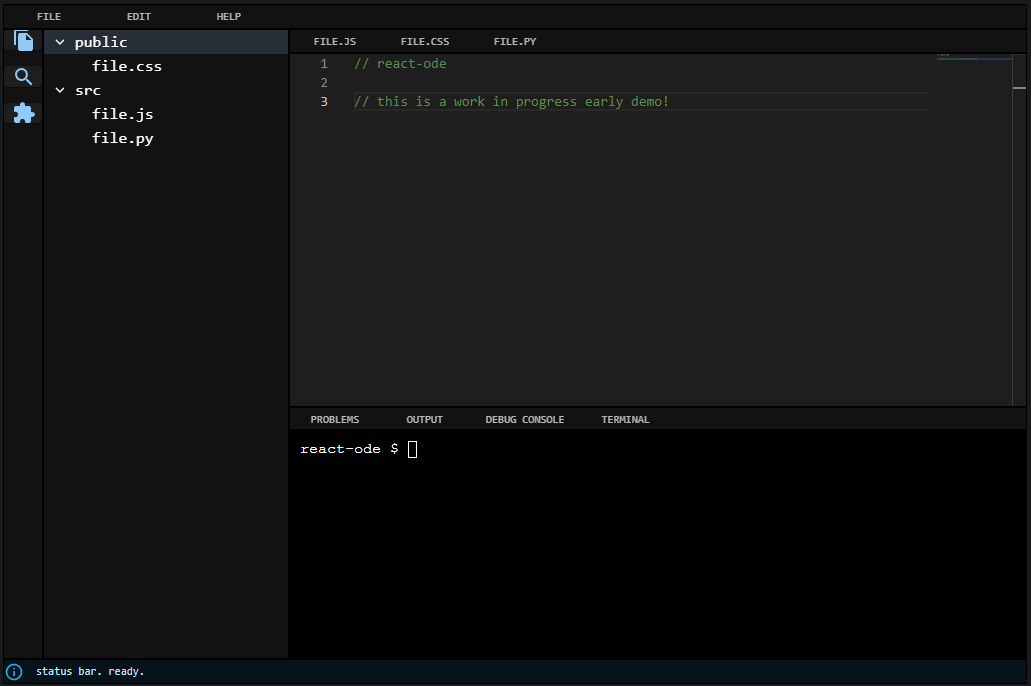
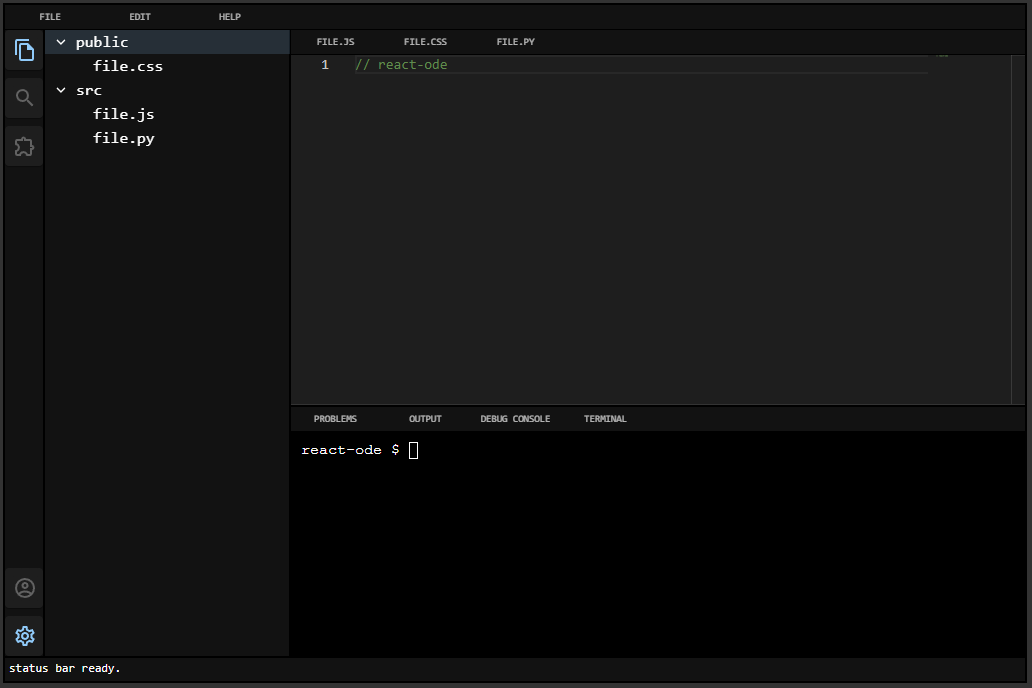
started using emotion internally as well + minor fixes here and there
now I just need to figure out how to make this responsive

diff --git a/src/components/Workspace.js b/src/components/Workspace.js
@@ -1,16 +1,24 @@
 import React from 'react';
 import PropTypes from 'prop-types';
+import { css } from '@emotion/react';
 import { Resizable } from 're-resizable';
 import { ThemeProvider, createTheme } from '@mui/material/styles';
 import { Console, ConsoleTabs, Editor, EditorTabs, Explorer, Header, Nav, Status } from './workspace';
 import ReactResizeDetector from 'react-resize-detector';
 
-import './Workspace.css';
-
 const theme = createTheme({
   palette: { mode: 'dark' },
   typography: { fontFamily: ['monospace'] },
 });
+
+const styles = {
+  root: css({ display: 'flex', flexDirection: 'column', border: 0, margin: 0, padding: 0 }),
+  border: css({ border: '1px solid #000', boxSizing: 'border-box' }),
+  wrapper: css({ display: 'flex', overflow: 'hidden', flex: 1 }),
+  wh100: css({ width: '100%', height: '100%' }),
+  h100: css({ height: '100%' }),
+  w100: css({ width: '100%' }),
+};
 
 export default class Workspace extends React.Component {
   static propTypes = {
@@ -30,20 +38,20 @@ export default class Workspace extends React.Component {
   render() {
     return (
       <ThemeProvider theme={theme}>
-        <div className="ode-main ode-border" style={{ width: this.props.w, height: this.props.h }}>
-          <div className="ode-header ode-border" style={{ height: this.props.tabSize }}>
+        <div css={[styles.root, styles.border]} style={{ width: this.props.w, height: this.props.h }}>
+          <div css={styles.border} style={{ height: this.props.tabSize }}>
             <Header />
           </div>
-          <div className="ode-wrapper">
-            <div className="ode-sidebar ode-border" style={{ width: this.props.navSize }}>
+          <div css={styles.wrapper}>
+            <div css={styles.border} style={{ width: this.props.navSize }}>
               <Nav />
             </div>
-            <div className="ode-wrapper">
+            <div css={styles.wrapper}>
               <ReactResizeDetector handleWidth handleHeight>
-                {({ width = '100%', height, targetRef }) => (
-                  <div ref={targetRef} style={{ width, height, display: 'flex', overflow: 'hidden' }}>
+                {({ width = '100%', height = '100%', targetRef }) => (
+                  <div css={styles.wrapper} ref={targetRef} style={{ width, height }}>
                     <Resizable
-                      className="ode-border"
+                      css={styles.border}
                       defaultSize={{ width: '25%', height: '100%' }}
                       maxWidth="90%"
                       minWidth="10%"
@@ -51,29 +59,29 @@ export default class Workspace extends React.Component {
                     >
                       <Explorer />
                     </Resizable>
-                    <div className="ode-wh-100" style={{ minWidth: '1px' }}>
-                      <div className="ode-wh-100 ode-main">
+                    <div css={styles.wh100} style={{ minWidth: '10%' }}>
+                      <div css={[styles.wh100, styles.root]}>
                         <Resizable
                           defaultSize={{ height: '60%' }}
                           maxHeight="90%"
                           minHeight="10%"
                           enable={ENABLE_BOTTOM_SIDE}
                         >
-                          <div className="ode-wh-100 ode-main">
-                            <div className="ode-w-100 ode-border" style={{ height: this.props.tabSize }}>
+                          <div css={[styles.wh100, styles.root]}>
+                            <div css={[styles.w100, styles.border]} style={{ height: this.props.tabSize }}>
                               <EditorTabs />
                             </div>
-                            <div className="ode-wh-100 ode-border">
+                            <div css={[styles.wh100, styles.border]}>
                               <Editor />
                             </div>
                           </div>
                         </Resizable>
-                        <div className="ode-h-100" style={{ minHeight: '1px' }}>
-                          <div className="ode-wh-100 ode-main">
-                            <div className="ode-w-100 ode-border" style={{ height: this.props.tabSize }}>
+                        <div className="ode-h-100" style={{ minHeight: '10%' }}>
+                          <div css={[styles.wh100, styles.root]}>
+                            <div css={[styles.w100, styles.border]} style={{ height: this.props.tabSize }}>
                               <ConsoleTabs />
                             </div>
-                            <div className="ode-w-100 ode-border" style={{ height: '100%' }}>
+                            <div css={[styles.wh100, styles.border]}>
                               <Console />
                             </div>
                           </div>
@@ -85,7 +93,7 @@ export default class Workspace extends React.Component {
               </ReactResizeDetector>
             </div>
           </div>
-          <div className="ode-border" style={{ height: this.props.tabSize }}>
+          <div css={styles.border} style={{ height: this.props.tabSize }}>
             <Status />
           </div>
         </div>
@@ -104,5 +112,6 @@ const DISABLE_ALL_SIDES = {
   bottomLeft: false,
   topLeft: false,
 };
+
 const ENABLE_RIGHT_SIDE = { ...DISABLE_ALL_SIDES, right: true };
 const ENABLE_BOTTOM_SIDE = { ...DISABLE_ALL_SIDES, bottom: true };

diff --git a/src/components/workspace/Nav.js b/src/components/workspace/Nav.js
@@ -3,29 +3,48 @@ import Box from '@mui/material/Box';
 import Paper from '@mui/material/Paper';
 import Stack from '@mui/material/Stack';
 import IconButton from '@mui/material/IconButton';
+import SearchOutlinedIcon from '@mui/icons-material/SearchOutlined';
+import FileCopyOutlinedIcon from '@mui/icons-material/FileCopyOutlined';
+import SettingsOutlinedIcon from '@mui/icons-material/SettingsOutlined';
+import ExtensionOutlinedIcon from '@mui/icons-material/ExtensionOutlined';
+import AccountCircleOutlinedIcon from '@mui/icons-material/AccountCircleOutlined';
+import { css } from '@emotion/react';
 
-import SearchIcon from '@mui/icons-material/Search';
-import FileCopyIcon from '@mui/icons-material/FileCopy';
-import ExtensionIcon from '@mui/icons-material/Extension';
+const styles = {
+  wrapper: css({ height: '100%' }),
+  stack: css({ height: '50%' }),
+};
 
 export default class Nav extends React.Component {
   render() {
     return (
-      <Box className="ode-wh-100" sx={{ bgcolor: 'background.paper' }}>
-        <Stack spacing={2}>
+      <Box css={styles.wrapper} sx={{ bgcolor: 'background.paper' }}>
+        <Stack css={styles.stack} spacing={1} direction="column" justifyContent="flex-start" alignItems="stretch">
           <Paper sx={{ textAlign: 'center' }}>
             <IconButton color="primary" component="span">
-              <FileCopyIcon />
+              <FileCopyOutlinedIcon />
+            </IconButton>
+          </Paper>
+          <Paper sx={{ textAlign: 'center' }}>
+            <IconButton color="primary" component="span" disabled>
+              <SearchOutlinedIcon />
+            </IconButton>
+          </Paper>
+          <Paper sx={{ textAlign: 'center' }}>
+            <IconButton color="primary" component="span" disabled>
+              <ExtensionOutlinedIcon />
+            </IconButton>
+          </Paper>
+        </Stack>
+        <Stack css={styles.stack} spacing={1} direction="column" justifyContent="flex-end" alignItems="stretch">
+          <Paper sx={{ textAlign: 'center' }}>
+            <IconButton color="primary" component="span" disabled>
+              <AccountCircleOutlinedIcon />
             </IconButton>
           </Paper>
           <Paper sx={{ textAlign: 'center' }}>
             <IconButton color="primary" component="span">
-              <SearchIcon />
-            </IconButton>
-          </Paper>
-          <Paper sx={{ textAlign: 'center' }}>
-            <IconButton color="primary" component="span">
-              <ExtensionIcon />
+              <SettingsOutlinedIcon />
             </IconButton>
           </Paper>
         </Stack>

diff --git a/src/components/workspace/Console.js b/src/components/workspace/Console.js
@@ -4,9 +4,19 @@ import { FitAddon } from 'xterm-addon-fit';
 import { WebglAddon } from 'xterm-addon-webgl';
 import { WebLinksAddon } from 'xterm-addon-web-links';
 import ReactResizeDetector from 'react-resize-detector';
+import { css } from '@emotion/react';
 
 import 'xterm/css/xterm.css';
-import './Console.css';
+
+const styles = css`
+  width: 100%;
+  height: 100%;
+  background: #000;
+
+  .xterm .xterm-viewport {
+    overflow-y: hidden !important;
+  }
+`;
 
 export default class Console extends React.Component {
   state = {
@@ -44,7 +54,7 @@ export default class Console extends React.Component {
     return (
       <ReactResizeDetector handleWidth handleHeight onResize={this.refit}>
         {({ width, height, targetRef }) => (
-          <div ref={targetRef} className="ode-xterm-wrapper ode-wh-100">
+          <div ref={targetRef} css={styles}>
             <div
               ref={this.handleConsoleRef}
               style={{ width: width - padding * 2, height: height - padding * 2, padding }}

diff --git a/src/components/workspace/Status.js b/src/components/workspace/Status.js
@@ -1,14 +1,27 @@
 import React from 'react';
 import Box from '@mui/material/Box';
-import Alert from '@mui/material/Alert';
+import Typography from '@mui/material/Typography';
+import { css } from '@emotion/react';
 
-import './Status.css';
+const styles = css`
+  width: 100%;
+  height: 100%;
+
+  .MuiPaper-root {
+    padding: 0 !important;
+  }
+  .MuiTypography-caption {
+    padding: 0 4px !important;
+  }
+`;
 
 export default class Status extends React.Component {
   render() {
     return (
-      <Box sx={{ bgcolor: 'background.default', color: 'text.primary' }} className="ode-wh-100">
-        <Alert severity="info">status bar. ready.</Alert>
+      <Box css={styles} sx={{ bgcolor: 'background.default', color: 'text.primary' }} justifyContent="center">
+        <Typography variant="caption" display="inline-flex">
+          status bar ready.
+        </Typography>
       </Box>
     );
   }

diff --git a/.storybook/main.js b/.storybook/main.js
@@ -1,8 +1,20 @@
 module.exports = {
-  stories: ['../src/**/*.stories.mdx', '../src/**/*.stories.@(js|jsx|ts|tsx)'],
-  addons: ['@storybook/addon-links', '@storybook/addon-essentials', '@storybook/addon-interactions'],
   framework: '@storybook/react',
+  stories: ['../src/**/*.stories.mdx', '../src/**/*.stories.@(js|jsx|ts|tsx)'],
+  addons: [
+    '@storybook/addon-links',
+    '@storybook/addon-essentials',
+    '@storybook/addon-interactions',
+    '@storybook/preset-create-react-app',
+    'storybook-dark-mode',
+  ],
   core: {
     builder: '@storybook/builder-webpack5',
+  },
+  webpackFinal: async (config) => {
+    const oneOfRule = config.module.rules.find((rule) => rule.oneOf);
+    const babelRule = oneOfRule.oneOf.find((rule) => rule.loader?.includes('babel-loader'));
+    babelRule.options.presets.push('@emotion/babel-preset-css-prop');
+    return config;
   },
 };

diff --git a/src/components/workspace/ConsoleTabs.js b/src/components/workspace/ConsoleTabs.js
@@ -2,13 +2,22 @@ import React from 'react';
 import Box from '@mui/material/Box';
 import Tab from '@mui/material/Tab';
 import Tabs from '@mui/material/Tabs';
+import { css } from '@emotion/react';
 
-import './ConsoleTabs.css';
+const styles = css`
+  .MuiButtonBase-root {
+    min-height: 100%;
+    height: 100%;
+    font-size: 75%;
+    line-height: 50%;
+    padding: 1em;
+  }
+`;
 
 export default class ConsoleTabs extends React.Component {
   render() {
     return (
-      <Box sx={{ maxWidth: '100%', bgcolor: 'background.paper' }}>
+      <Box css={styles} sx={{ maxWidth: '100%', bgcolor: 'background.paper' }}>
         <Tabs>
           <Tab label="problems" />
           <Tab label="output" />

diff --git a/src/components/workspace/EditorTabs.js b/src/components/workspace/EditorTabs.js
@@ -2,13 +2,22 @@ import React from 'react';
 import Box from '@mui/material/Box';
 import Tab from '@mui/material/Tab';
 import Tabs from '@mui/material/Tabs';
+import { css } from '@emotion/react';
 
-import './EditorTabs.css';
+const styles = css`
+  .MuiButtonBase-root {
+    min-height: 100%;
+    height: 100%;
+    font-size: 75%;
+    line-height: 50%;
+    padding: 1em;
+  }
+`;
 
 export default class EditorTabs extends React.Component {
   render() {
     return (
-      <Box sx={{ maxWidth: '100%', bgcolor: 'background.paper' }}>
+      <Box css={styles} sx={{ maxWidth: '100%', bgcolor: 'background.paper' }}>
         <Tabs>
           <Tab label="file.js" />
           <Tab label="file.css" />

diff --git a/src/components/workspace/Explorer.js b/src/components/workspace/Explorer.js
@@ -4,11 +4,16 @@ import TreeView from '@mui/lab/TreeView';
 import ExpandMoreIcon from '@mui/icons-material/ExpandMore';
 import ChevronRightIcon from '@mui/icons-material/ChevronRight';
 import TreeItem from '@mui/lab/TreeItem';
+import { css } from '@emotion/react';
+
+const styles = css`
+  height: 100%;
+`;
 
 export default class Explorer extends React.Component {
   render() {
     return (
-      <Box sx={{ bgcolor: 'background.default', color: 'text.primary' }} className="ode-wh-100">
+      <Box css={styles} sx={{ bgcolor: 'background.default', color: 'text.primary' }}>
         <TreeView
           aria-label="file system navigator"
           defaultCollapseIcon={<ExpandMoreIcon />}

diff --git a/src/components/workspace/Header.js b/src/components/workspace/Header.js
@@ -2,13 +2,22 @@ import React from 'react';
 import Box from '@mui/material/Box';
 import Tab from '@mui/material/Tab';
 import Tabs from '@mui/material/Tabs';
+import { css } from '@emotion/react';
 
-import './Header.css';
+const styles = css`
+  .MuiButtonBase-root {
+    min-height: 100%;
+    height: 100%;
+    font-size: 75%;
+    line-height: 50%;
+    padding: 1em;
+  }
+`;
 
 export default class Header extends React.Component {
   render() {
     return (
-      <Box sx={{ bgcolor: 'background.paper' }}>
+      <Box css={styles} sx={{ bgcolor: 'background.paper' }}>
         <Tabs>
           <Tab label="File" />
           <Tab label="Edit" />

diff --git a/README.md b/README.md
@@ -33,9 +33,6 @@ it does so by offering a rich api over the combination of the following technolo
 - [Monaco Editor](https://www.npmjs.com/package/@monaco-editor/react): to handle the main editor user interface
 - [Material UI](https://mui.com/material-ui/getting-started/installation): to handle non-editor user interfaces
 - [memfs](https://github.com/streamich/memfs): to handle a virtualized filesystem for the editor
-- [isogit](https://github.com/isomorphic-git/isomorphic-git): to handle git workflows
 - [xterm.js](https://xtermjs.org): to handle rendering a virtualized terminal
-  - [pyodide](https://pyodide.org/en/stable/): to offer a python shell
-  - [v86](https://pyodide.org/en/stable/): to offer a general purpose shell
 
 this is a visual component, meant to be embedded in higher order components and projects to build rich experiences.
